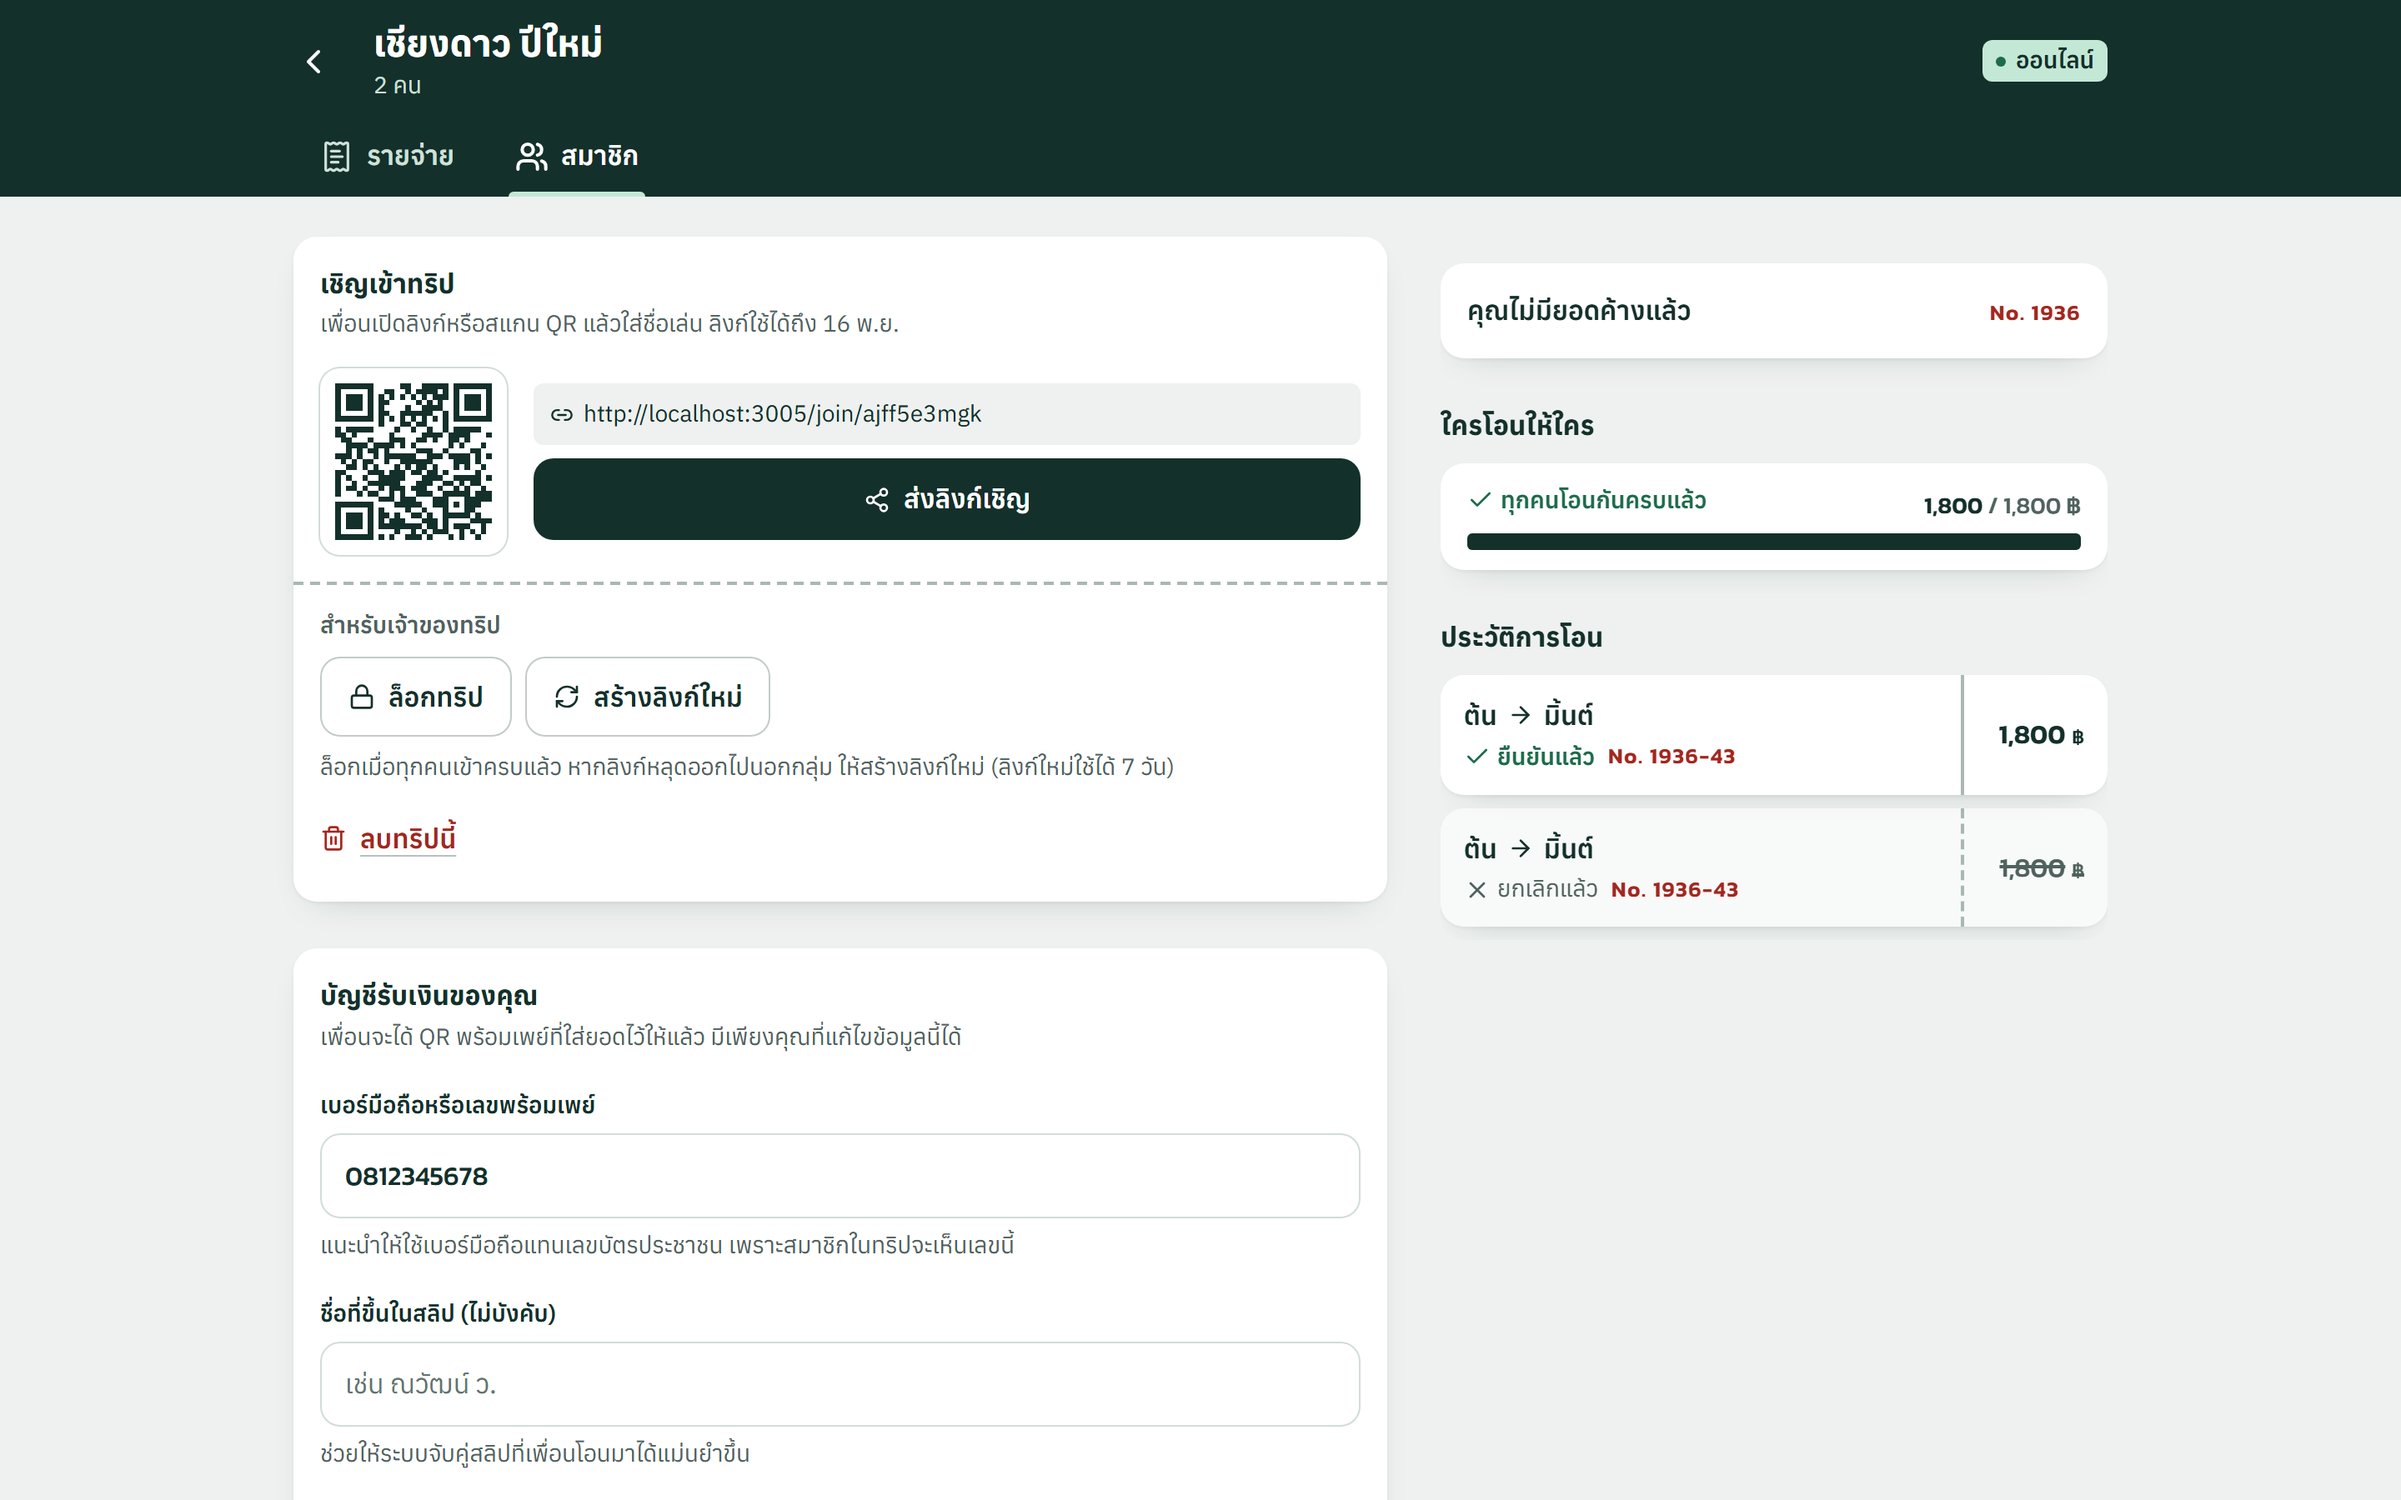
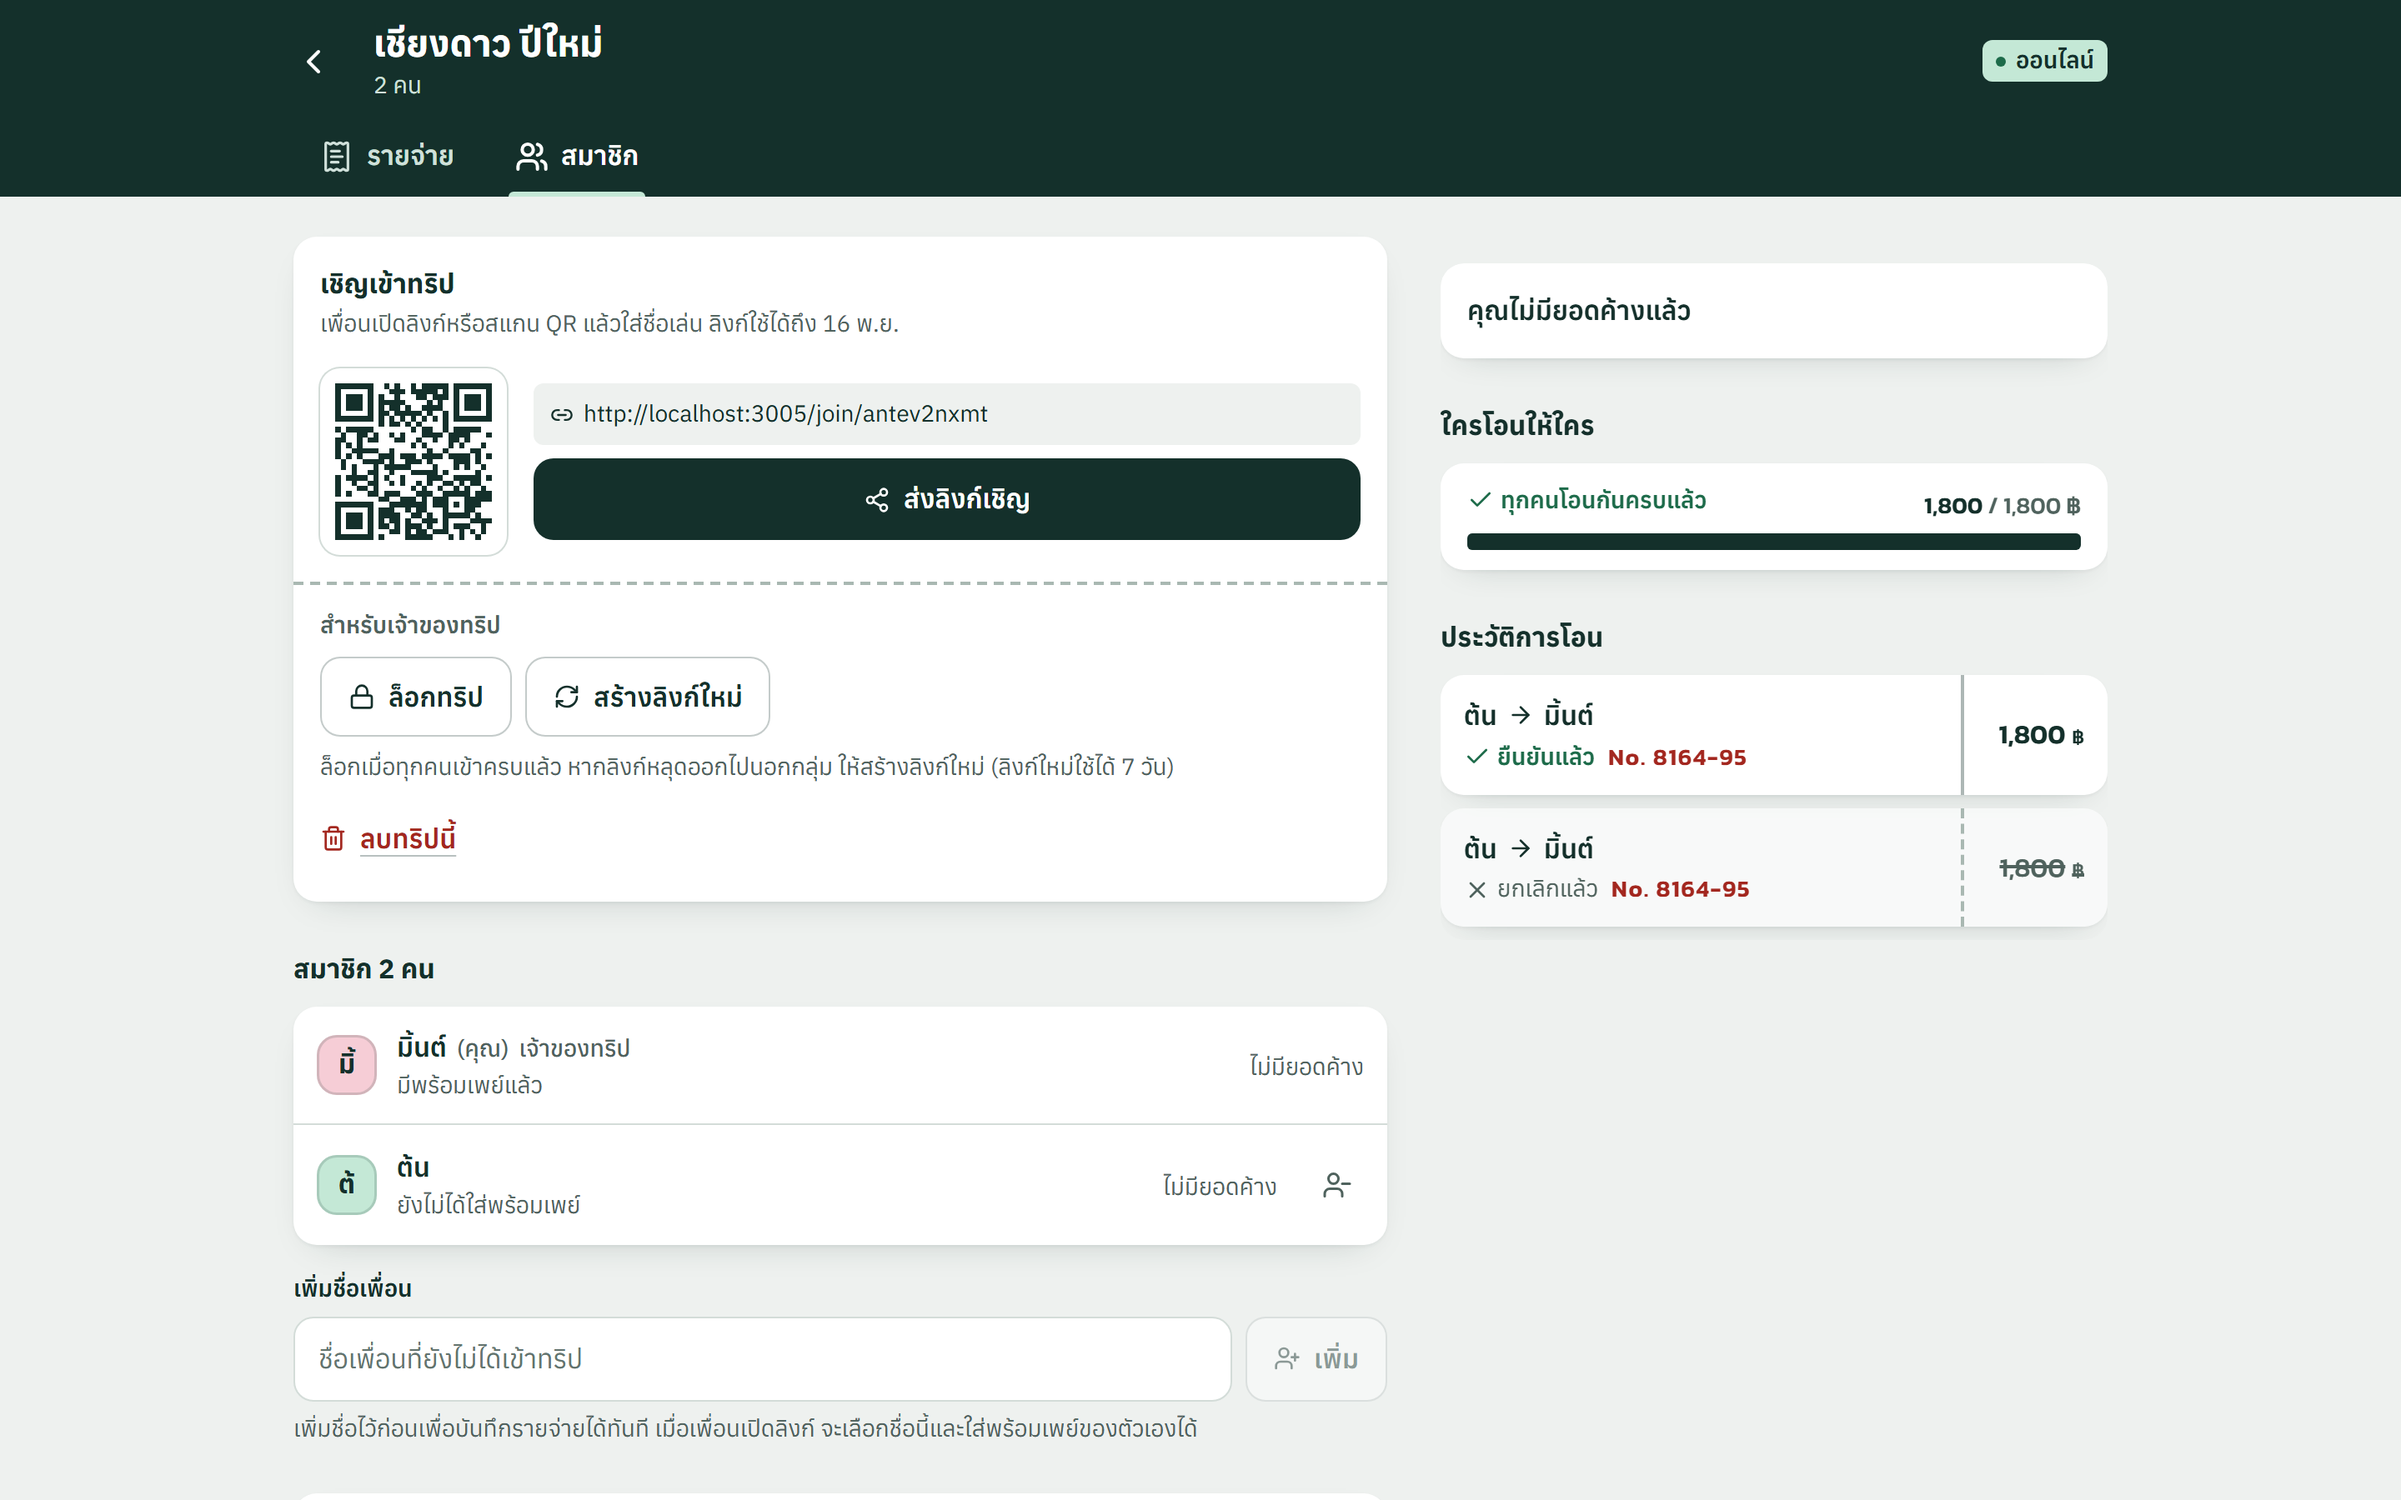
Trim repeated coupon serials, one totals receipt, trips first for returning users
- Expenses tab: trip total and your share become two lines of one coupon
  instead of two stacked cards each printing the trip serial
- Settle tab: drop the serial from the balance card (kept on transfer coupons)
- Home: your trips come before the create form once you have any
- Members tab: member list before the payout form
- Serial text at 14px to meet the type floor; hero line keeps its last phrase together

diff --git a/src/components/trip/expenses-tab.tsx b/src/components/trip/expenses-tab.tsx
@@ -43,7 +43,6 @@ export function ExpensesTab({
   const me = state.me;
   const myShare = me ? (settlement.spentBy.get(me.id) ?? 0) : 0;
   const myPayments = me ? settlement.transfers.filter((t) => t.from === me.id && t.claimedAmount < t.amount) : [];
-  const serial = tripSerial(view.trip.id);
   const allHavePromptPay = myPayments.every((t) => view.members.find((m) => m.id === t.to)?.promptpay_id);
 
   const byDay = new Map<string, Pending<Expense>[]>();
@@ -54,9 +53,10 @@ export function ExpensesTab({
 
   return (
     <>
-      <section className="grid grid-cols-1 gap-2.5 min-[400px]:grid-cols-2" aria-label="ยอดรวม">
-        <Stub label="ทั้งทริปจ่ายไป" serial={serial} satang={settlement.total} />
-        <Stub label="ส่วนของคุณ" serial={serial} satang={myShare} tint={me ? memberTint(view.members, me.id) : undefined} />
+      {/* One receipt, two lines: the totals read at a glance and leave room for the list. */}
+      <section className="coupon divide-y divide-line" aria-label="ยอดรวม">
+        <TotalRow label="ทั้งทริปจ่ายไป" satang={settlement.total} />
+        <TotalRow label="ส่วนของคุณ" satang={myShare} tint={me ? memberTint(view.members, me.id) : undefined} />
       </section>
 
       {myPayments.length > 0 && (
@@ -125,16 +125,12 @@ export function ExpensesTab({
   );
 }
 
-function Stub({ label, serial, satang, tint }: { label: string; serial: string; satang: number; tint?: string }) {
+function TotalRow({ label, satang, tint }: { label: string; satang: number; tint?: string }) {
   return (
-    <div className="coupon flex" style={tint ? { background: tint } : undefined}>
-      <span className="perf-y my-2.5 ml-2.5 border-ink/25" aria-hidden />
-      <div className="min-w-0 flex-1 px-3 py-3">
-        <span className="block text-meta font-medium">{label}</span>
-        <Baht satang={satang} className="mt-0.5 block text-title font-semibold leading-tight" />
-        <span className="serial mt-1 block whitespace-nowrap">{serial}</span>
-      </div>
-    </div>
+    <p className="flex items-baseline justify-between gap-3 px-4 py-3" style={tint ? { background: tint } : undefined}>
+      <span className="text-body font-medium">{label}</span>
+      <Baht satang={satang} className="text-title font-semibold leading-tight" />
+    </p>
   );
 }
 

diff --git a/src/app/page.tsx b/src/app/page.tsx
@@ -90,13 +90,13 @@ export default function Home() {
         <div className="lg:w-full lg:max-w-md">
           <h1 className="text-display font-bold">หารกัน</h1>
           <p className="mt-2 max-w-[30ch] text-body leading-relaxed text-on-ink-muted">
-            บันทึกค่าใช้จ่ายร่วมกันได้จากมือถือของทุกคน แล้วสรุปให้ว่าใครต้องโอนให้ใคร โดยโอนน้อยครั้งที่สุด
+            บันทึกค่าใช้จ่ายร่วมกันได้จากมือถือของทุกคน แล้วสรุปให้ว่าใครต้องโอนให้ใคร <span className="whitespace-nowrap">โดยโอนน้อยครั้งที่สุด</span>
           </p>
           {trips !== null && trips.length === 0 && <ExampleCoupon />}
         </div>
       </header>
 
-      <main className="space-y-8 px-4 pb-12 pt-5 lg:w-full lg:max-w-xl lg:self-center lg:px-12 lg:py-16">
+      <main className="flex flex-col gap-8 px-4 pb-12 pt-5 lg:w-full lg:max-w-xl lg:self-center lg:px-12 lg:py-16">
         <form onSubmit={create} className="coupon" aria-labelledby="create-h">
           <div className="space-y-5 p-4">
             <h2 id="create-h" className="text-body font-bold">
@@ -146,7 +146,8 @@ export default function Home() {
           </p>
         </form>
 
-        <section aria-labelledby="mine-h">
+        {/* Returning people come for their trips; the form moves below them. */}
+        <section aria-labelledby="mine-h" className={trips?.length ? "order-first" : undefined}>
           <h2 id="mine-h" className="mb-2.5 text-body font-bold">
             ทริปของฉัน
           </h2>

diff --git a/src/components/trip/settle-tab.tsx b/src/components/trip/settle-tab.tsx
@@ -9,7 +9,7 @@ import type { Pending } from "@/lib/trip/outbox";
 import type { TripState, TripStore } from "@/lib/trip/store";
 import type { Member, Payment } from "@/lib/trip/types";
 import { Baht, Empty, MemberTile, PendingMark, SettleStrip, memberTint } from "../ui";
-import { couponNo, tripSerial } from "./expenses-tab";
+import { couponNo } from "./expenses-tab";
 import { QrSheet } from "./qr-sheet";
 import { SlipSheet } from "./slip-sheet";
 
@@ -27,7 +27,6 @@ export function SettleTab({ state, store, settlement }: { state: TripState; stor
   const [slip, setSlip] = useState<PlannedTransfer | null>(null);
   const myNet = me ? (settlement.net.get(me.id) ?? 0) : 0;
   const tripCreator = view.trip.created_by === state.userId;
-  const serial = tripSerial(view.trip.id);
 
   // A transfer fully claimed to me already shows above as a coupon to confirm; show it once.
   const transfers = settlement.transfers.filter((t) => !(me && t.to === me.id && t.claimedAmount >= t.amount));
@@ -57,7 +56,6 @@ export function SettleTab({ state, store, settlement }: { state: TripState; stor
                 : settlement.total
                   ? "คุณไม่มียอดค้างแล้ว"
                   : "ยังไม่มียอดที่ต้องโอน"}
-            <span className="serial">{serial}</span>
           </p>
           {myNet !== 0 && (
             <Baht

diff --git a/src/components/trip/members-tab.tsx b/src/components/trip/members-tab.tsx
@@ -93,8 +93,6 @@ export function MembersTab({ state, store, settlement }: { state: TripState; sto
         </section>
       )}
 
-      {me && <MyProfile key={me.id + (me.promptpay_id ?? "") + (me.payee_name ?? "")} state={state} store={store} />}
-
       <section aria-labelledby="members-h">
         <h2 id="members-h" className="mb-2.5 text-body font-bold">
           สมาชิก {view.members.length} คน
@@ -122,6 +120,8 @@ export function MembersTab({ state, store, settlement }: { state: TripState; sto
         </form>
         <p className="hint">เพิ่มชื่อไว้ก่อนเพื่อบันทึกรายจ่ายได้ทันที เมื่อเพื่อนเปิดลิงก์ จะเลือกชื่อนี้และใส่พร้อมเพย์ของตัวเองได้</p>
       </section>
+
+      {me && <MyProfile key={me.id + (me.promptpay_id ?? "") + (me.payee_name ?? "")} state={state} store={store} />}
     </div>
   );
 }

diff --git a/src/app/globals.css b/src/app/globals.css
@@ -135,7 +135,7 @@ a {
     border-top: 2px dashed var(--color-perf);
   }
   .serial {
-    @apply whitespace-nowrap text-[13px] font-semibold tracking-[0.06em] text-serial;
+    @apply whitespace-nowrap text-meta font-semibold tracking-[0.06em] text-serial;
     font-family: var(--font-num);
     font-variant-numeric: tabular-nums;
   }
